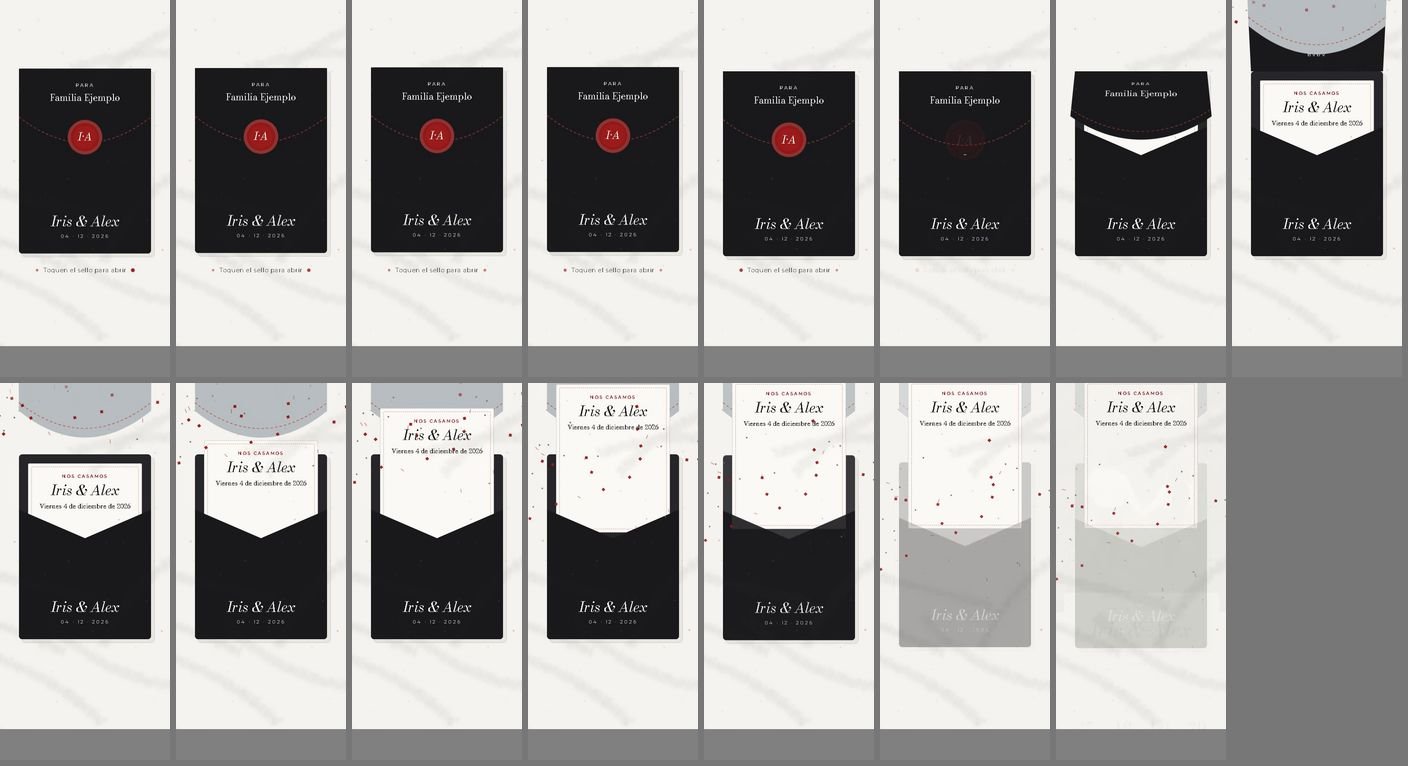
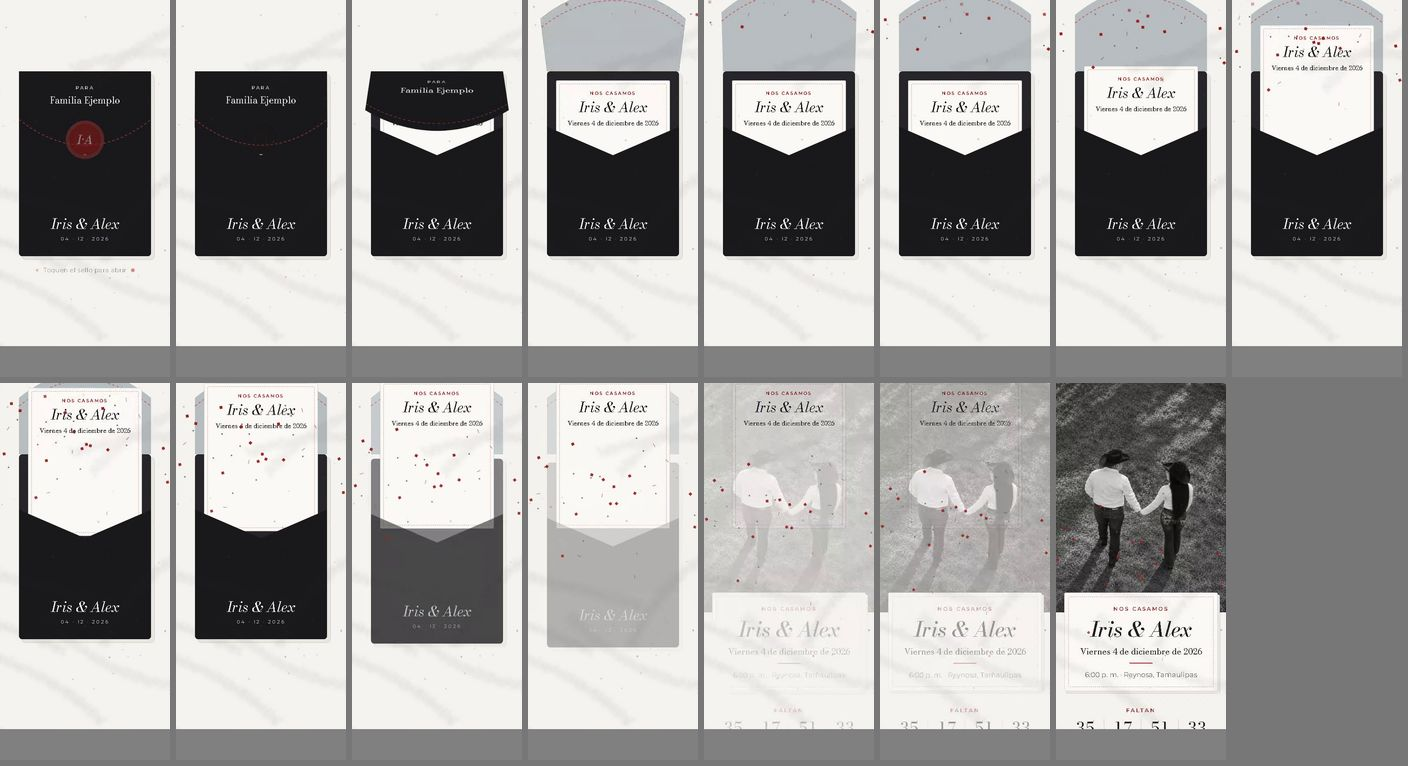
Iris & Alex: la solapa abierta queda pegada al sobre
El interior de la solapa llevaba un giro propio de 180° que, sumado al giro
de la solapa, la volteaba de nuevo y la despegaba del sobre. Sin ese giro,
la bisagra queda en la orilla y la curva hacia arriba.

diff --git a/src/styles/invitacion.css b/src/styles/invitacion.css
@@ -110,7 +110,9 @@ body.con-sobre { overflow: hidden; }
 /* Cara y dorso se cambian justo a medio giro (cuando la solapa está de canto y no
    se ve): más confiable que backface-visibility, que Chrome no respeta aquí. */
 .sobre__solapa-cara, .sobre__solapa-dorso { position: absolute; inset: 0; }
-.sobre__solapa-dorso { transform: rotateX(180deg); opacity: 0; }
+/* El dorso no lleva giro propio: al voltearse la solapa ya se ve "de espaldas",
+   con la bisagra pegada al sobre y la curva hacia arriba. */
+.sobre__solapa-dorso { opacity: 0; }
 .sobre__solapa-forma { display: block; width: 100%; height: 100%; overflow: visible; }
 .sobre__solapa-papel { fill: var(--ev-envelope); }
 .sobre__solapa-forma--dorso .sobre__solapa-papel { fill: var(--ev-liner-2); }
